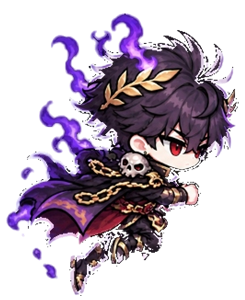
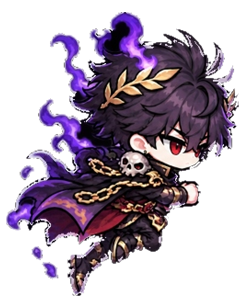
Clean up Hades Mythic sprites (silky anti-aliased edges, zero black pockets/bleed) and declutter in-game VFX layering

Changed region(s): [[0.0286, 0.03, 0.9714, 0.99], [0.7714, 0.36, 0.8571, 0.42], [0.9429, 0.21, 0.9714, 0.24]]

diff --git a/js/renderer.js b/js/renderer.js
@@ -56,7 +56,7 @@ window.RunRenderer = (function () {
   ];
 
   const sprites = {};
-  const CHAR_ASSET_VER = '20261121hd47';
+  const CHAR_ASSET_VER = '20261121hd48';
   const CHEST_TIERS = ['wood', 'silver', 'gold', 'diamond'];
 
   CHEST_TIERS.forEach((tier) => {
@@ -971,14 +971,14 @@ window.RunRenderer = (function () {
         dashSpr = getSprite(feverTimer > 0 ? 'fx_dash_gold' : 'fx_dash_blue');
       }
       if (dashSpr) {
-        const pulse = 0.94 + Math.sin(t * 24) * 0.08;
-        const dh = Math.round((isCustomBooster ? (isProne ? 42 : 54) : (isProne ? 26 : 34)) * pulse);
+        const pulse = 0.95 + Math.sin(t * 22) * 0.06;
+        const dh = Math.round((isCustomBooster ? (isProne ? 36 : 44) : (isProne ? 26 : 34)) * pulse);
         const dw = Math.round(dh * (dashSpr.naturalWidth / dashSpr.naturalHeight));
         ctx.save();
-        ctx.globalAlpha = isCustomBooster ? 0.96 : 0.88;
+        ctx.globalAlpha = isCustomBooster ? 0.94 : 0.88;
         ctx.imageSmoothingEnabled = true;
-        const offsetBack = isCustomBooster ? -6 : 2;
-        ctx.drawImage(dashSpr, Math.floor(cx - dw - offsetBack), Math.floor(cy - (isProne ? 20 : scaleHeight * 0.50) - dh / 2), dw, dh);
+        const offsetBack = isCustomBooster ? 6 : 2;
+        ctx.drawImage(dashSpr, Math.floor(cx - dw - offsetBack), Math.floor(cy - (isProne ? 18 : scaleHeight * 0.48) - dh / 2), dw, dh);
         ctx.restore();
       }
     }
@@ -989,13 +989,13 @@ window.RunRenderer = (function () {
         const af = Math.floor(t * 14) % (skinDef.customAuraFrames || 6);
         const auraSpr = getSprite(`${skinDef.customAuraPrefix}_${af}`) || getSprite(`${skinDef.customAuraPrefix}_0`);
         if (auraSpr) {
-          const pulse = 1.0 + Math.sin(t * 10) * 0.06;
-          const aSz = Math.round((isProne ? 64 : scaleHeight * 1.48) * pulse);
+          const pulse = 1.0 + Math.sin(t * 10) * 0.05;
+          const aSz = Math.round((isProne ? 58 : scaleHeight * 1.38) * pulse);
           ctx.save();
-          ctx.globalAlpha = 0.92;
+          ctx.globalAlpha = 0.84;
           ctx.imageSmoothingEnabled = true;
           ctx.imageSmoothingQuality = 'high';
-          ctx.drawImage(auraSpr, Math.floor(cx - aSz / 2), Math.floor(cy - (isProne ? 16 : scaleHeight * 0.50) - aSz / 2), aSz, aSz);
+          ctx.drawImage(auraSpr, Math.floor(cx - aSz / 2), Math.floor(cy - (isProne ? 16 : scaleHeight * 0.48) - aSz / 2), aSz, aSz);
           ctx.restore();
         }
       } else {
@@ -1014,10 +1014,10 @@ window.RunRenderer = (function () {
         ringSpr = getSprite((skinDef && skinDef.customShieldVfx) || 'fx_shield_ring');
       }
       if (ringSpr) {
-        const pulse = 1 + Math.sin(t * 8) * 0.05;
-        const rSz = Math.round((isProne ? 54 : scaleHeight * 1.30) * pulse);
+        const pulse = 1 + Math.sin(t * 8) * 0.04;
+        const rSz = Math.round((isProne ? 52 : scaleHeight * 1.24) * pulse);
         ctx.save();
-        ctx.globalAlpha = 0.90;
+        ctx.globalAlpha = skinDef && skinDef.customShieldPrefix ? 0.72 : 0.88;
         ctx.imageSmoothingEnabled = true;
         ctx.imageSmoothingQuality = 'high';
         ctx.drawImage(ringSpr, Math.floor(cx - rSz / 2), Math.floor(cy - (isProne ? 16 : scaleHeight * 0.5) - rSz / 2), rSz, rSz);
@@ -1036,8 +1036,8 @@ window.RunRenderer = (function () {
     const customUmb = skinDef && skinDef.customUmbrella ? getSprite(skinDef.customUmbrella) : null;
     const umbSpr = customUmb || getSprite('spr_umbrella');
     if (showUmbrella && umbSpr) {
-      const uy = cy - (isProne ? 26 : scaleHeight) - (customUmb ? 10 : 8);
-      const uh = customUmb ? 56 : 44;
+      const uy = cy - (isProne ? 26 : scaleHeight) - 8;
+      const uh = customUmb ? 46 : 44;
       const uw = Math.round(uh * (umbSpr.naturalWidth / umbSpr.naturalHeight));
       ctx.save();
       ctx.imageSmoothingEnabled = true;
@@ -1050,7 +1050,7 @@ window.RunRenderer = (function () {
         ctx.rotate(tilt);
         ctx.drawImage(umbSpr, Math.floor(-uw / 2), Math.floor(-uh * 0.52), uw, uh);
       } else {
-        ctx.drawImage(umbSpr, Math.floor(cx - uw / 2 + 8), Math.floor(uy - (customUmb ? 30 : 24)), uw, uh);
+        ctx.drawImage(umbSpr, Math.floor(cx - uw / 2 + 8), Math.floor(uy - 24), uw, uh);
       }
       ctx.restore();
     } else if (!dead && umbrellaBrokenTimer > 4.25 && umbSpr) {
@@ -1058,7 +1058,7 @@ window.RunRenderer = (function () {
       const prog = Math.max(0, Math.min(1, (5.0 - umbrellaBrokenTimer) / 0.75));
       const uy = cy - scaleHeight - 10 - prog * 34;
       const ux = cx + 6 - prog * 46;
-      const uh = customUmb ? 48 : 40;
+      const uh = customUmb ? 42 : 40;
       const uw = Math.round(uh * (umbSpr.naturalWidth / umbSpr.naturalHeight));
       ctx.save();
       ctx.globalAlpha = Math.max(0, 1 - prog);
@@ -1106,40 +1106,50 @@ window.RunRenderer = (function () {
     if (running && !dead && skinDef && skinDef.trail) {
       const tr = skinDef.trail;
       const isHigh = skinDef.rarity === 'legendary' || skinDef.rarity === 'mythic' || skinDef.rarity === 'epic';
-      const cnt = isHigh ? 6 : 3;
-      for (let k = 0; k < cnt; k++) {
-        const ox = ((t * (isHigh ? 74 : 52) + k * 11) % 38);
-        const oy = Math.sin(t * 9 + k * 1.9) * (isHigh ? 14 : 8);
-        ctx.fillStyle = tr[k % tr.length];
-        const sz = isHigh && k % 2 === 0 ? 4 : 3;
-        ctx.fillRect(Math.floor(cx - 14 - ox), Math.floor(cy - scaleHeight * 0.48 + oy), sz, sz);
-      }
-      if (isHigh) {
-        let customAura = null;
-        if (skinDef.customAuraPrefix) {
-          const af = Math.floor(t * 11) % (skinDef.customAuraFrames || 6);
-          customAura = getSprite(`${skinDef.customAuraPrefix}_${af}`) || getSprite(`${skinDef.customAuraPrefix}_0`);
-        } else if (skinDef.customShieldVfx) {
-          customAura = getSprite(skinDef.customShieldVfx);
-        }
-        if (customAura) {
-          const pulse = 0.96 + Math.sin(t * 7) * 0.06;
-          const aSz = Math.round((isProne ? 50 : scaleHeight * 1.24) * pulse);
-          ctx.save();
-          ctx.globalAlpha = (skinDef.customAuraPrefix ? 0.56 : 0.34) + Math.sin(t * 6) * 0.12;
-          ctx.imageSmoothingEnabled = true;
-          ctx.imageSmoothingQuality = 'high';
-          ctx.drawImage(customAura, Math.floor(cx - aSz / 2), Math.floor(cy - (isProne ? 16 : scaleHeight * 0.5) - aSz / 2), aSz, aSz);
-          ctx.restore();
-        } else {
-          ctx.save();
-          ctx.strokeStyle = skinDef.glow || tr[0];
-          ctx.globalAlpha = 0.42 + Math.sin(t * 8) * 0.16;
-          ctx.lineWidth = skinDef.rarity === 'mythic' ? 2.5 : 1.8;
+      if (skinDef.customAuraPrefix) {
+        // Clean delicate drifting underworld flame embers behind Hades (zero blocky squares or muddying ring during normal run!)
+        ctx.save();
+        for (let k = 0; k < 4; k++) {
+          const prog = ((t * 1.65 + k * 0.25) % 1);
+          const ox = 16 + prog * 34;
+          const oy = Math.sin(t * 7 + k * 2.1) * 10 - prog * 8;
+          ctx.globalAlpha = Math.max(0, (1 - prog) * 0.75);
+          ctx.fillStyle = tr[k % tr.length];
           ctx.beginPath();
-          ctx.arc(cx, cy - (isProne ? 16 : scaleHeight * 0.5), isProne ? 26 : scaleHeight * 0.54, 0, Math.PI * 2);
-          ctx.stroke();
-          ctx.restore();
+          ctx.arc(cx - ox, cy - scaleHeight * 0.45 + oy, 2.2 * (1 - prog * 0.4), 0, Math.PI * 2);
+          ctx.fill();
+        }
+        ctx.restore();
+      } else {
+        const cnt = isHigh ? 6 : 3;
+        for (let k = 0; k < cnt; k++) {
+          const ox = ((t * (isHigh ? 74 : 52) + k * 11) % 38);
+          const oy = Math.sin(t * 9 + k * 1.9) * (isHigh ? 14 : 8);
+          ctx.fillStyle = tr[k % tr.length];
+          const sz = isHigh && k % 2 === 0 ? 4 : 3;
+          ctx.fillRect(Math.floor(cx - 14 - ox), Math.floor(cy - scaleHeight * 0.48 + oy), sz, sz);
+        }
+        if (isHigh) {
+          const customAura = skinDef.customShieldVfx ? getSprite(skinDef.customShieldVfx) : null;
+          if (customAura) {
+            const pulse = 0.96 + Math.sin(t * 7) * 0.06;
+            const aSz = Math.round((isProne ? 46 : scaleHeight * 1.12) * pulse);
+            ctx.save();
+            ctx.globalAlpha = 0.34 + Math.sin(t * 6) * 0.10;
+            ctx.imageSmoothingEnabled = true;
+            ctx.imageSmoothingQuality = 'high';
+            ctx.drawImage(customAura, Math.floor(cx - aSz / 2), Math.floor(cy - (isProne ? 16 : scaleHeight * 0.5) - aSz / 2), aSz, aSz);
+            ctx.restore();
+          } else {
+            ctx.save();
+            ctx.strokeStyle = skinDef.glow || tr[0];
+            ctx.globalAlpha = 0.42 + Math.sin(t * 8) * 0.16;
+            ctx.lineWidth = skinDef.rarity === 'mythic' ? 2.5 : 1.8;
+            ctx.beginPath();
+            ctx.arc(cx, cy - (isProne ? 16 : scaleHeight * 0.5), isProne ? 26 : scaleHeight * 0.54, 0, Math.PI * 2);
+            ctx.stroke();
+            ctx.restore();
+          }
         }
       }
     } else if (running && !dead && charDef.auraType) {
@@ -1209,10 +1219,10 @@ window.RunRenderer = (function () {
         const customMsk = skinDef && skinDef.customMask ? getSprite(skinDef.customMask) : null;
         const maskSpr = customMsk || getSprite('spr_mask');
         if (maskSpr) {
-          const mw = customMsk ? (sliding ? 24 : 28) : (sliding ? 20 : 22);
+          const mw = customMsk ? (sliding ? 19 : 21) : (sliding ? 20 : 22);
           const mh = Math.round(mw * (maskSpr.naturalHeight / maskSpr.naturalWidth));
-          const mx = sliding ? Math.floor(drawW * 0.02) : Math.floor(-mw * (customMsk ? 0.10 : 0.14));
-          const my = sliding ? Math.floor(-drawH * 0.44) : Math.floor(-drawH * 0.51);
+          const mx = sliding ? Math.floor(drawW * 0.06) : Math.floor(-mw * (customMsk ? 0.06 : 0.14));
+          const my = sliding ? Math.floor(-drawH * 0.40) : Math.floor(-drawH * 0.47);
           ctx.drawImage(maskSpr, mx, my, mw, mh);
         } else {
           const my = sliding ? Math.floor(-drawH * 0.34) : Math.floor(-drawH * 0.44);

diff --git a/index.html b/index.html
@@ -13,7 +13,7 @@
   <link rel="apple-touch-icon" sizes="180x180" href="assets/icons/apple-touch-icon-180.png?v=20261121hd21" />
   <link rel="manifest" href="manifest.json?v=20261121hd21" />
   <title>한국 날씨에서 살아남기</title>
-  <link rel="stylesheet" href="style.css?v=20261121hd47" />
+  <link rel="stylesheet" href="style.css?v=20261121hd48" />
 </head>
 <body>
   <div id="mobile-app">
@@ -851,11 +851,11 @@
   <!-- Official Firebase Auth SDK (Google Real OAuth) -->
   <script src="https://www.gstatic.com/firebasejs/10.14.1/firebase-app-compat.js"></script>
   <script src="https://www.gstatic.com/firebasejs/10.14.1/firebase-auth-compat.js"></script>
-  <script src="js/data.js?v=20261121hd47"></script>
+  <script src="js/data.js?v=20261121hd48"></script>
   <script src="js/audio.js?v=20261121hd9"></script>
-  <script src="js/online.js?v=20261121hd47"></script>
-  <script src="js/renderer.js?v=20261121hd47"></script>
-  <script src="js/game.js?v=20261121hd47"></script>
+  <script src="js/online.js?v=20261121hd48"></script>
+  <script src="js/renderer.js?v=20261121hd48"></script>
+  <script src="js/game.js?v=20261121hd48"></script>
   <script>
     if ('serviceWorker' in navigator && (location.protocol === 'https:' || location.hostname === 'localhost')) {
       window.addEventListener('load', () => {

diff --git a/js/data.js b/js/data.js
@@ -327,7 +327,7 @@ window.RUN_DATA = (function () {
       customAnimFrames: 3,
       customIdleFrames: 8,
       customRunFrames: 8,
-      customAvatar: 'assets/chars/port_hades.png?v=20261121hd47',
+      customAvatar: 'assets/chars/port_hades.png?v=20261121hd48',
       customUmbrella: 'hades_umbrella',
       customMask: 'hades_mask',
       customShieldPrefix: 'hades_shield',

diff --git a/js/game.js b/js/game.js
@@ -83,7 +83,7 @@
     return `${utc.getUTCFullYear()}-W${String(weekNo).padStart(2, '0')}`;
   }
 
-  const ASSET_VER = '20261121hd47';
+  const ASSET_VER = '20261121hd48';
 
   function haptic(ms = 10) {
     if (typeof navigator !== 'undefined' && navigator.vibrate) {

diff --git a/sw.js b/sw.js
@@ -1,4 +1,4 @@
-const CACHE_NAME = 'k-weather-survival-v20261121hd47';
+const CACHE_NAME = 'k-weather-survival-v20261121hd48';
 const CORE_ASSETS = [
   './',
   './index.html',
